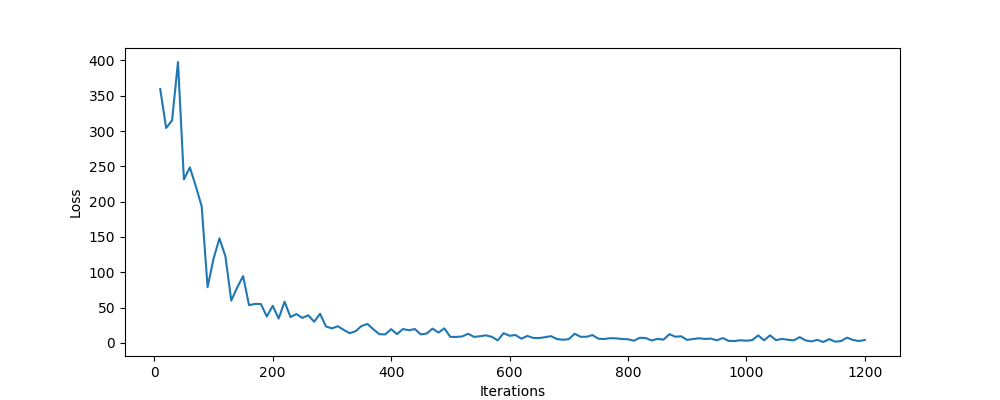
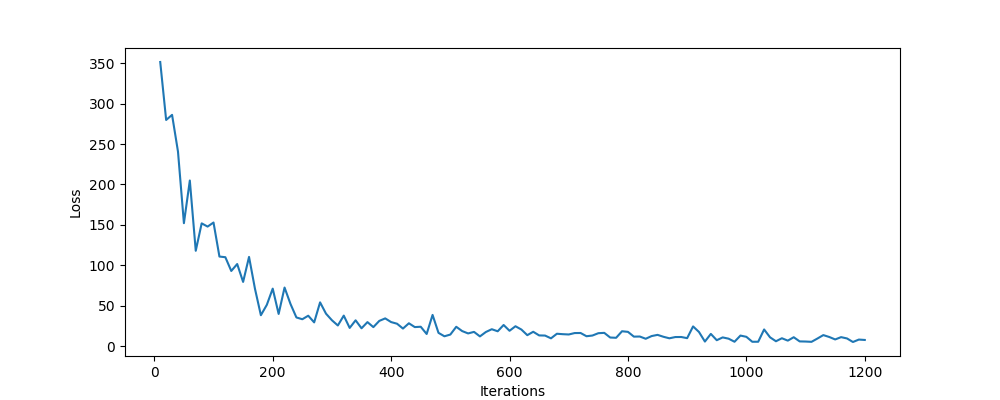
updated shit

diff --git a/p1b.py b/p1b.py
@@ -40,6 +40,8 @@ def train(aug, config, savemodel=False, model="model"):
 
     net = SiameseNet(p1b=True).cuda()
 
+    #net.load_state_dict(torch.load('p1b_epoch_30.w'))
+
     if aug:
         trainset = LFWDataset(train=True,
                           transform=transforms.Compose([augmentation, transforms.Scale((128,128)),
@@ -114,7 +116,7 @@ def test(config, loadmodel=False, model="model"):
         output1, output2 = net(img0,img1)
         dist = F.pairwise_distance(output1, output2)
         for x,y in zip(dist, label):
-            if (x.data[0]>=config.threshold and y.data[0]==1) or (x.data[0]<config.threshold and y.data[0]==0):
+            if (x.data[0]>=config.threshold and y.data[0]==0) or (x.data[0]<config.threshold and y.data[0]==1):
                 trainright+=1
             else:
                 trainwrong+=1
@@ -131,7 +133,7 @@ def test(config, loadmodel=False, model="model"):
         output1, output2 = net(img0,img1)
         dist = F.pairwise_distance(output1, output2)
         for x,y in zip(dist, label):
-            if (x.data[0]>= config.threshold and y.data[0]==1) or (x.data[0]< config.threshold and y.data[0]==0):
+            if (x.data[0]>= config.threshold and y.data[0]==0) or (x.data[0]< config.threshold and y.data[0]==1):
                 testright+=1
             else:
                 testwrong+=1
